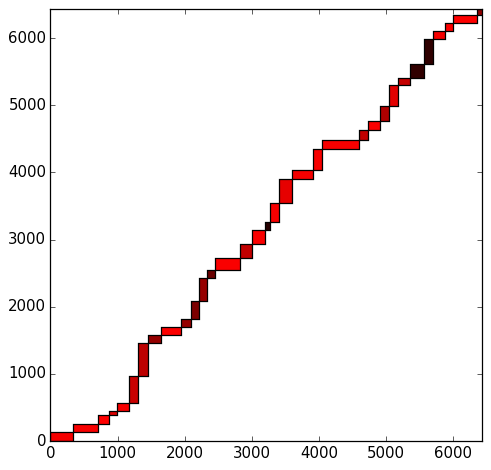
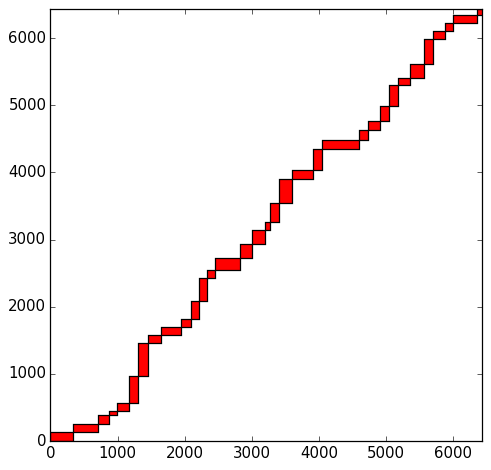
Add rotations for clusters.  Fix error in returning indices of max in matrix.

diff --git a/initializeMatchPairs.py b/initializeMatchPairs.py
@@ -25,9 +25,15 @@ def initializeMatchPairs(dataset):
 		(i,j) = utils.getMaxOfMatrix(matrixWorkingCopy)
 
 		if i==j:
+			# end case, since this value has to be 0
 			node = RectNode(None,None,'rect',rectangles[i])
 			nodes.append(node)
-			matrixWorkingCopy[i,i] = -1
+			#matrixWorkingCopy[i,i] = -1
+
+			# Nullify considered modules
+			for k in range(len(rectangles)):
+				matrixWorkingCopy[i,k] = -1
+				matrixWorkingCopy[k,i] = -1
 
 		else:
 			rectI = rectangles[i]
@@ -44,36 +50,20 @@ def initializeMatchPairs(dataset):
 			newX = min(rectI.x,rectJ.x)
 			newY = min(rectI.y,rectJ.y)
 
-
-			#Default J to above I and then optimize
+			#Default I and J to same origin [will I need this?]
 			rectI.x = newX
 			rectI.y = newY
 			rectJ.x = newX
 			rectJ.y = newY
-			#rectJ.y = rectI.y + rectI.h
-
-			type = utils.optimizeTwoRectangles(rectI,rectJ)
-
-			def OLDVERSION():
-				verticalStackArea = max(rectI.w,rectJ.w)*(rectI.h+rectJ.h)
-				horizontalStackArea = max(rectI.h,rectJ.h)*(rectI.w+rectJ.w)
-				type = ''
-
-				if (verticalStackArea>horizontalStackArea):
-					newH = max(rectI.y,rectJ.y)
-					newW = rectI.w + rectJ.w
-					type = '-'
-
-				else:
-					newH = max(rectI.y,rectJ.y)
-					newW = rectI.w + rectJ.w
-					type = '|'				
+			
+			type = utils.optimizeTwoRectangles(rectI,rectJ)			
 
 			nodeI = RectNode(None,None,'rect',rectI)
 			nodeJ = RectNode(None,None,'rect',rectJ)
 			node = RectNode(nodeI,nodeJ,type,None)
 			nodes.append(node)
 
+	print(dataset + '  ' + str(len(nodes)))
 
 	def printRectangleTest():
 		for r in rectangles:
@@ -83,6 +73,8 @@ def initializeMatchPairs(dataset):
 	# Given initial grouping of modules, construct a full slicing tree
 	while (len(nodes)>1):
 		length = len(nodes)
+		#print(dataset + '  ' + str(length))
+
 		newNodes = []
 
 		# sort the nodes
@@ -93,31 +85,56 @@ def initializeMatchPairs(dataset):
 			left = nodes[i]
 			right = nodes[i+1]
 
-			# Choose split direction that will minimize area (unless it violates skewness)
-			verticalStackArea = max(left.w,right.w)*(left.h+right.h)
-			horizontalStackArea = max(left.h,right.h)*(left.w+right.w) 
-			stack = '|'
+			def newModuleMethod():
+				stack = utils.optimizeTwoRectangles(left,right)
+				return stack
 
-			if horizontalStackArea<verticalStackArea:
-				stack='-'
+			def oldModuleMethod():
+				# Choose split direction that will minimize area (unless it violates skewness)
+				verticalStackArea = max(left.w,right.w)*(left.h+right.h)
+				horizontalStackArea = max(left.h,right.h)*(left.w+right.w) 
+				stack = '|'
 
-			# Ensure that we are creating a skew tree
-			if right.type != 'rect':
-				if right.type == '-':
-					stack = '|'
-				else:
-					stack = '-'
+				if horizontalStackArea<verticalStackArea:
+					stack='-'
+				return stack
 
-			newNode = RectNode(nodes[i],nodes[i+1],stack,None)
+			#stack = oldModuleMethod()
+			stack = newModuleMethod()
+
+			def ensureSkew():
+				# Ensure that we are creating a skew tree
+				if right.type != 'rect':
+					if right.type == '-':
+						stack = '|'
+					else:
+						stack = '-'
+			ensureSkew()
+
+			newNode = RectNode(left,right,stack,None)
 			newNodes.append(newNode)
 		# Handle edge case where there is an unmatched odd node
 		if len(newNodes)*2<len(nodes):
-			newNodes.append(nodes[len(nodes)-1])
+			# Create new node with left = previous node and right = remaining node. This will prevent dangling node.
+			prevNode = newNodes[len(newNodes)-1]
+			remainingNode = nodes[len(nodes)-1]
+
+			if remainingNode.type == 'rect':
+				remainingNode.rect.flag = True
+			
+			#print(dataset + '  ' + remainingNode.type + '  ' + str(len(rectangles)))
+
+
+			newNode = RectNode(prevNode,remainingNode,prevNode.type,None)
+			newNodes.pop() # avoid duplicate rectangles
+			newNodes.append(newNode)
+			#newNodes.append(nodes[len(nodes)-1])
 
 		nodes = newNodes
 
 	root = nodes[0] # tree has been created
 
+	utils.resetRectangles(rectangles)
 	utils.updateTreeDimensions(root)
 
 	def printTest():
@@ -149,6 +166,11 @@ def initializeMatchPairs(dataset):
 	#printRect('bk10b')
 	#printRect('bk9b')
 
+	def printRectDetailsTest():
+		print(dataset)
+		for r in rectangles:
+			r.printRect()
+	#rectDetailsTest()
 
 	return (root, rectangles, dictionary, matrix)
 

diff --git a/utils.py b/utils.py
@@ -4,16 +4,21 @@ from classes import RectNode, Rect
 
 benchmarks = ["ami33", "ami49","apte", "hp", "xerox"] # To make performing operations on all benchmarks easier
 
-# Return the indices of the maximum value of a matrix
+# Return the indices of the maximum value of a matrix.  Don't return along diagonal unless there are no matches left.
 def getMaxOfMatrix(matrix):
 	maxValue = np.max(matrix)
+
+	backup = -1
 
 	for i in range(len(matrix)):
 		for j in range(len(matrix)):
 			if maxValue==matrix[i,j]:
-				return (i,j)
+				if i==j:
+					backup = (i,j)
+				else:
+					return (i,j)
 
-	return -1
+	return backup
 
 
 # Returns a string with Polish expression of a slicing tree
@@ -90,8 +95,9 @@ def _updateTreeDimensionsHelper(root,wAdj,hAdj):
 		root.rect.y += hAdj
 		return
 
-	# Recursive calls
-	_updateTreeDimensionsHelper(root.left,wAdj,hAdj)
+	# Recursive calls - adjust the right branch with the dimensions of the left/bottom branch
+	if root.left is not None:
+		_updateTreeDimensionsHelper(root.left,wAdj,hAdj)
 
 	if root.right is not None:
 		wAdjSub = wAdj
@@ -105,7 +111,14 @@ def _updateTreeDimensionsHelper(root,wAdj,hAdj):
 
 		_updateTreeDimensionsHelper(root.right,wAdjSub,hAdjSub)
 
-	return
+	return True
+
+# Reset all rectangles to origin
+def resetRectangles(rectangles):
+	for r in rectangles:
+		r.x=0
+		r.y=0
+	return True
 
 
 def sortByShape(node):
@@ -117,12 +130,12 @@ def sortByShape(node):
 
 
 # Consider the possible rotations of the rectangles and update the height/width/origin to represent minimal area pairing
+# Can be used from rectangles or nodes
 def optimizeTwoRectangles(rect1,rect2):
 	# Need only rotate and/or move one rectangle (say rect2). 
 
-	# Defaults (to be updated later if necessary) 
+	# Defaults (to be below later if necessary) 
 	sign = "|"
-
 
 	# Case 1 - no flip, above
 	w = max(rect1.w,rect2.w)
@@ -144,26 +157,26 @@ def optimizeTwoRectangles(rect1,rect2):
 	h = max(rect1.h,rect2.w)
 	area4 = w*h
 
+	# Final area of the combo
 	area = min(area1,area2,area3,area4)
 
-	
+	#print(str(isinstance(rect2,RectNode)) + '|' + str(isinstance(rect2,RectNode)))
+
 	if area==area1:
-		#rect2.x = rect1.x
-		#rect2.y = rect1.y+rect1.h
 		sign = "-"		
 	elif area==area2:
-		#rect2.x = rect1.x + rect1.w
-		#rect2.y = rect1.y
 		sign = "|"		
 	elif area==area3:
-		flipRect(rect2)
-		#rect2.x = rect1.x
-		#rect2.y = rect1.y+rect1.h
+		if isinstance(rect2,Rect):
+			flipRect(rect2)
+		else:
+			flipNode(rect2)
 		sign = "-"				
 	else:
-		flipRect(rect2)
-		#rect2.x = rect1.x + rect1.w
-		#rect2.y = rect1.y
+		if isinstance(rect2,Rect):
+			flipRect(rect2)
+		else:
+			flipNode(rect2)
 		sign = "|"
 
 	def printTest():
@@ -176,9 +189,34 @@ def optimizeTwoRectangles(rect1,rect2):
 
 	return sign;
 
+
+# Switch the height and width of a rectangle
 def flipRect(rect):
 	temp = rect.w
 	rect.w = rect.h
 	rect.h = temp
 	rect.flipped = not rect.flipped
+	return True
+
+# Recursively flip all componenents of a node (subnodes/modules)
+def flipNode(node):
+	# Update top level dimensions
+	temp = node.w
+	node.w = node.h
+	node.h = temp
+
+	if node.type=='rect':
+		flipRect(node.rect)
+		return True
+	elif node.type == '|':
+		node.type = '-'
+	else:
+		node.type = '|'
+
+	# Recursively update descendant nodes, including modules
+	if node.left is not None:
+		flipNode(node.left)
+	if node.right is not None:
+		flipNode(node.right)
+
 	return True

diff --git a/classes.py b/classes.py
@@ -13,6 +13,7 @@ class Rect:
 		self.connections = 0
 		self.connectionsRatio = 0
 		self.flipped = False		
+		self.flag = False # Not used for a specific purpose.  Testing only.
 
 	def makePatch(self):
 		p = patches.Rectangle(
@@ -24,6 +25,10 @@ class Rect:
 	        	facecolor="#959595", 
 			)
 		return p
+	def printRect(self):
+		print(self.name + '|' + str(self.x) + '|' + str(self.y) + '|' + str(self.w) + '|' + str(self.h) + '|' + str(self.flipped))
+
+
 ########################################################################
 
 

diff --git a/printFloorplan.py b/printFloorplan.py
@@ -59,8 +59,11 @@ def printFloorplan(rectangles,outfile):
 
 	for j in range(len(rectangles)):
 		p = rectangles[j].makePatch()
-		#p.set_facecolor("#FF0000")
-		p.set_facecolor((rectangles[j].connectionsRatio,0,0))
+		p.set_facecolor("#FF0000")
+
+		if (rectangles[j].flag):
+			p.set_facecolor("00FF00")
+		#p.set_facecolor((rectangles[j].connectionsRatio,0,0))
 		#p.set_facecolor((1,0,0))
 		ax1.add_patch(p)
 
